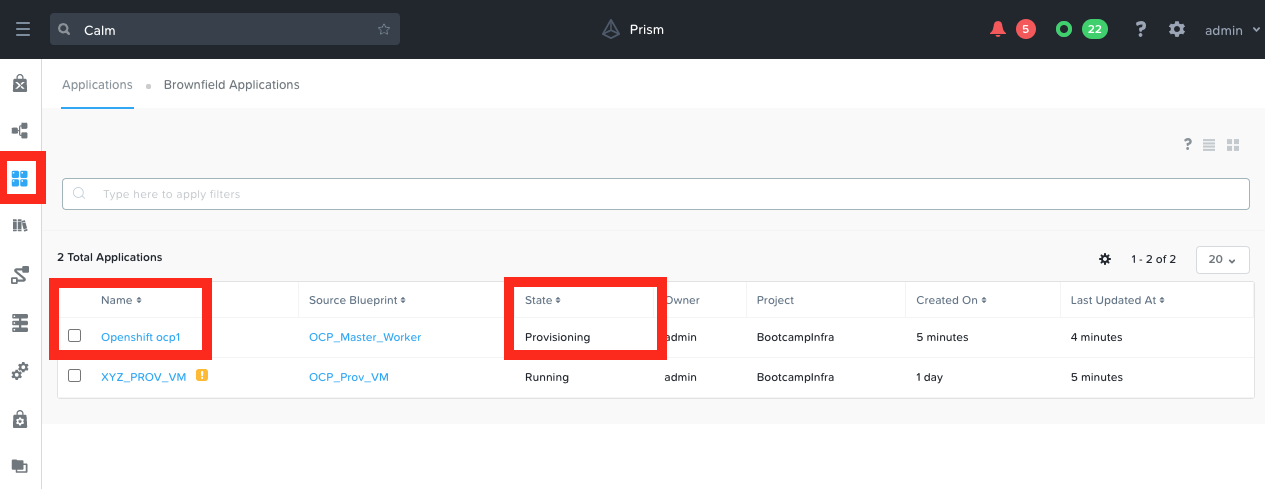
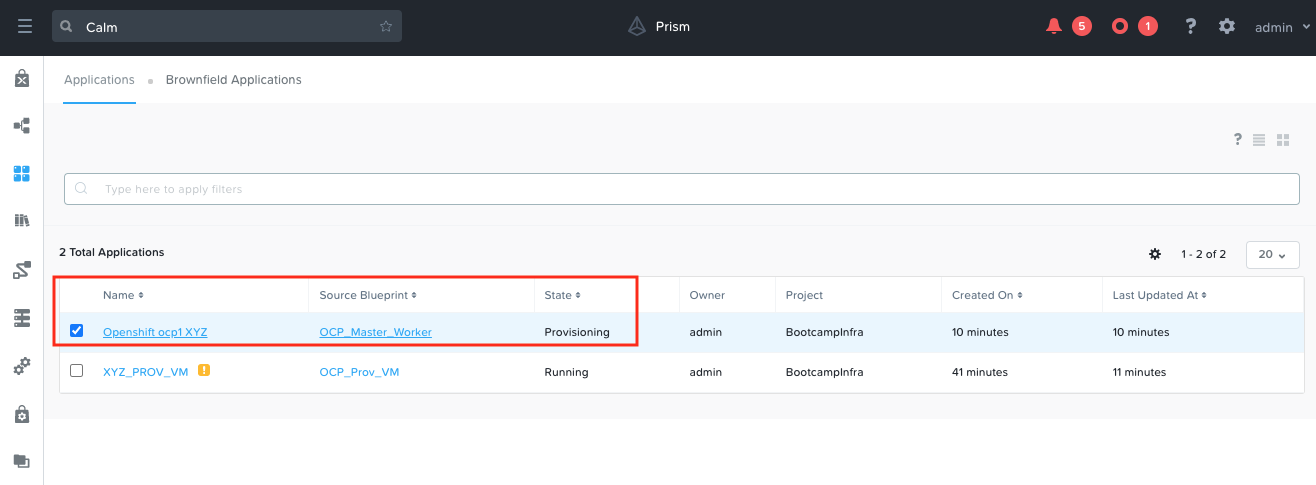
Thu Jan  6 17:14:45 JST 2022

diff --git a/prov_vm/prov_vm.rst b/prov_vm/prov_vm.rst
@@ -26,13 +26,31 @@ We need to configure network and credentials for the blueprint so it can be depl
    
    .. figure:: images/ocp_bp_save.png
 
-#. Click on **Credentials** (next to Save)
+#. Click on **Credentials** (next to **Save**)
 
 #. Go to this  `URL <https://travistidwell.com/jsencrypt/demo/>`_ to create a RSA private key
 
 #. Choose **2048 bit** as the key size and click on **Generate New Keys**
 
    .. figure:: images/generate_rsa_key.png
+
+   .. note::
+
+    You can use any online key generator if you using Windows.
+    
+    Execute the following commands in you are in a Linux / Mac environment to generate a private key.
+
+    .. code-block:: bash
+
+      ssh-keygen -t rsa -b 2048 -C "Created for OCP Workshop"
+
+      # follow prompts 
+      # do not specify passphrase
+      # once completed run the following command
+      
+      cat id_rsa
+
+      # copy the contents of the id_rsa file to your Calm blueprint
 
 #. Copy the **Private Key** and paste the generated primary key in the bluprints credential called **CRED**
 

diff --git a/ocp_scale_out_in/ocp_scale_out_in.rst b/ocp_scale_out_in/ocp_scale_out_in.rst
@@ -19,7 +19,7 @@ Day 0: Getting OCP Cluster Login Details
 
 #. In **Calm** > **Applications**
 
-#. Click on the **Openshift ocp1** application and go to **Audit** tab
+#. Click on the **Openshift ocp1 XYZ** application and go to **Audit** tab
 
 #. Go to the end of the audit trail and look for **OS_Status_Check Start** task and expand 
 
@@ -34,9 +34,11 @@ Day 0: Getting OCP Cluster Login Details
 
    .. figure:: images/ocp_console_cred.png
 
-   Note that the password will be different for your implementation. 
+   .. note::
+   
+     The password will be different for your application. 
 
-#. You will need these details to logon to the OCP cluster managment console
+#. Note this down as you will need these credentials to logon to the OCP cluster managment console
 
 Day 0: Accessing OCP Cluster Manager
 +++++++++++++++++++++++++++++++++++++

diff --git a/ocp_vms/ocp_vms.rst b/ocp_vms/ocp_vms.rst
@@ -108,7 +108,7 @@ Deploying OCP Cluster
 
    .. figure:: images/ocp_deploy_audit.png
 
-#. If this action launch is succesful, you will see another application **Openshift ocp1** in the **Calm** > **Applications** in a **Provisioning** state
+#. If this action launch is succesful, you will see another application **Openshift ocp1 XYZ** in the **Calm** > **Applications** in a **Provisioning** state
  
    .. figure:: images/ocp_app_provisioning.png
 
